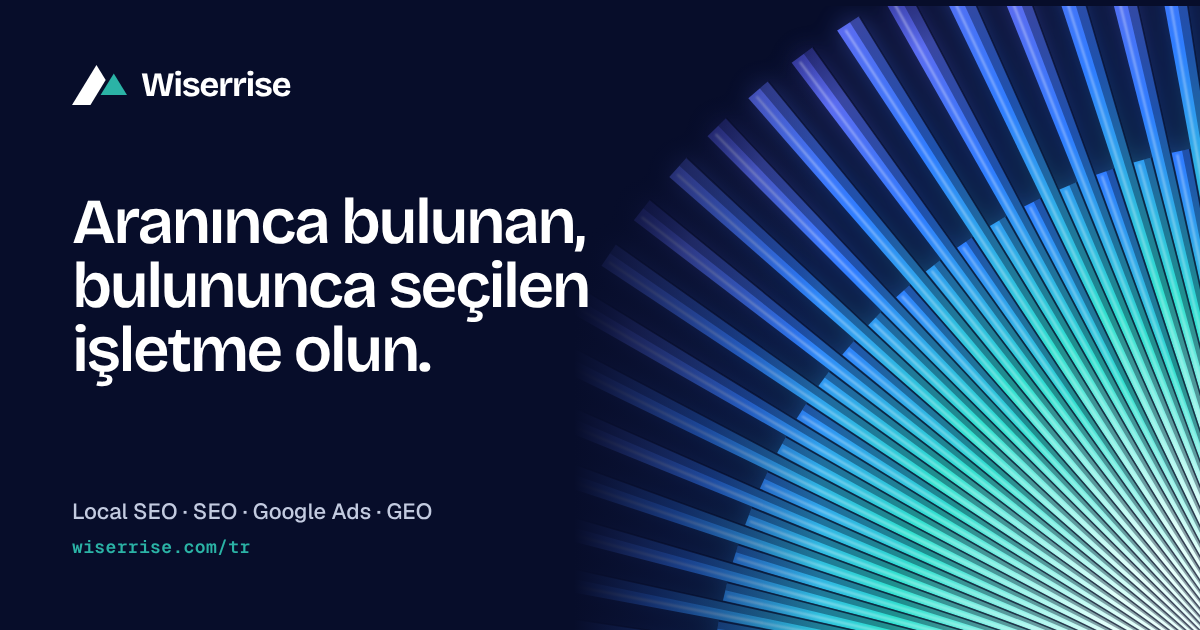
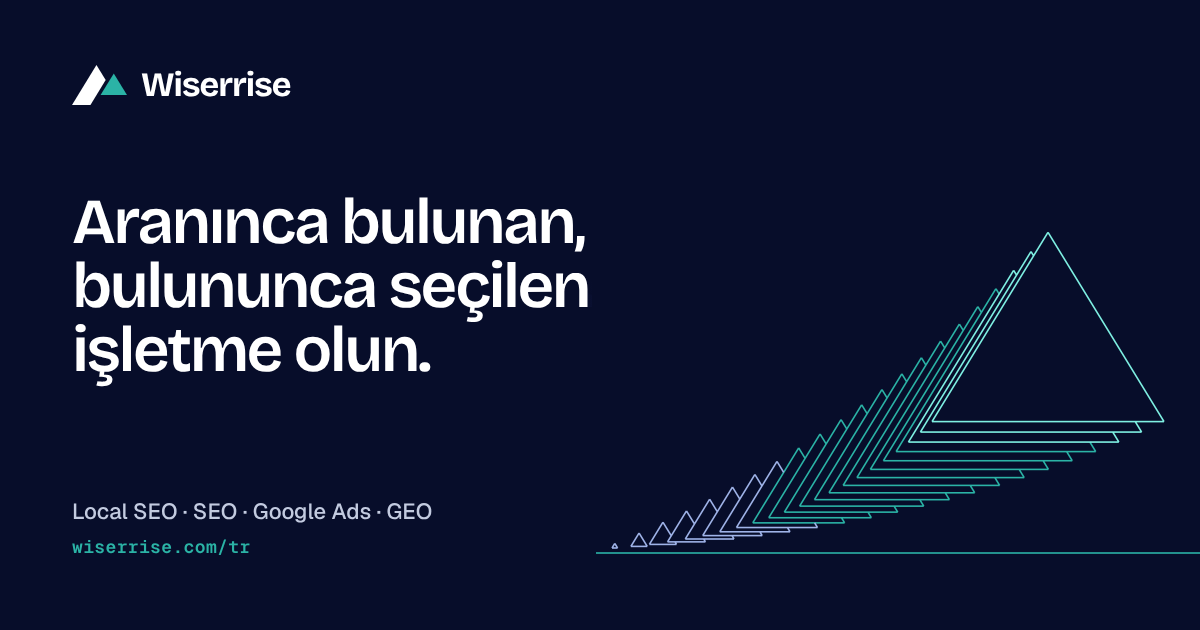
İmza: C·İZ ve kavis hareketli çizgileri kaldırıldı, yalnız sabit iç içe üçgen kalır (Padişah 25.11: animasyon yok)

diff --git a/public/v2.css b/public/v2.css
@@ -1,7 +1,7 @@
 /* ==========================================================================
    Wiserrise 2026 tasarımı (design="v2" sayfalar).
    Kaynak: Wiserrise tasarım sistemi (lacivert #16244d, firuze #2bb3a6,
-   kırık beyaz #f6f6f3; şemse ışınları imzası). Bu dosya yalnızca v2 sayfalarda
+   kırık beyaz #f6f6f3; imza C · İZ, public/js/iz.js). Bu dosya yalnızca v2 sayfalarda
    yüklenir; eski sayfalar /style.css ile devam eder.
    ========================================================================== */
 
@@ -31,9 +31,9 @@ input::placeholder{color:#868982}
 .cam{position:relative;overflow:hidden;background:#000;color:#fff;min-height:calc(100vh + 160px);min-height:calc(100svh + 160px);display:flex;align-items:center;padding:0 clamp(16px,3vw,32px);box-sizing:border-box}
 .semse-corner{background-color:#16244d}
 .semse-foot{background-color:#f6f6f3}
-/* İmza kavis: public/js/kavis.js çizer. Kutunun zemininin üstünde, yazının ve panellerin altında durur. */
-[data-kavis]{position:relative;isolation:isolate}
-.kavis{position:absolute;inset:0;z-index:-1;display:block;width:100%;height:100%;pointer-events:none}
+/* İmza C · İZ: public/js/iz.js çizer. Kutunun zemininin üstünde, yazının ve panellerin altında durur. */
+[data-iz]{position:relative;isolation:isolate}
+.iz{position:absolute;inset:0;z-index:-1;display:block;width:100%;height:100%;pointer-events:none;overflow:hidden}
 .card{transition:border-color 160ms ease}
 /* Kart oku: kart zıplamaz. Okun üstüne gelince şeffaf hap açılır, içinde eylem yazısı belirir. */
 .v2-arrow{flex:0 0 auto;display:inline-flex;align-items:center;justify-content:center;min-width:36px;height:36px;padding:0 11px;border-radius:999px;border:1px solid #868982;color:#16244d;box-sizing:border-box;font-size:13px;font-weight:600;white-space:nowrap;transition:padding 280ms cubic-bezier(.2,.8,.2,1),border-color 200ms ease,background-color 200ms ease,color 200ms ease}
@@ -576,7 +576,7 @@ body.v2 .v2-rel-card { display: flex; flex-direction: column; gap: 10px; min-hei
 .v2-rel-p { font-size: 15px; line-height: 1.55; color: #5c5e59; }
 .v2-rel-card .v2-arrow { margin-top: auto; align-self: flex-start; }
 
-/* sayfa sonu vurgu ekranı: ana sayfadaki siyah bant, kenardan kenara ama daha kısa; paneli yok, kavis yazının sağındaki boşluğu doldurur */
+/* sayfa sonu vurgu ekranı: ana sayfadaki siyah bant, kenardan kenara ama daha kısa; paneli yok, imza yazının sağındaki boşluktan kalkar */
 .cam.cam--kisa { min-height: 560px; min-height: clamp(520px, 72svh, 720px); }
 .v2-page-cta { width: 100%; max-width: 1312px; margin: 0 auto; padding: clamp(40px, 6vw, 72px) 0 clamp(40px, 6vw, 72px) clamp(24px, 5vw, 64px); box-sizing: border-box; }
 .v2-page-cta-in { max-width: 560px; display: flex; flex-direction: column; align-items: flex-start; gap: 24px; }
@@ -591,7 +591,7 @@ body.v2 .v2-btn-cizgi { display: inline-flex; align-items: center; height: 60px;
 .v2-hub-hl { display: flex; flex-direction: column; gap: 16px; max-width: 720px; }
 .v2-hub-h h2 { margin: 0; font-family: 'Bricolage Grotesque', Geist, sans-serif; font-size: clamp(30px, 4.2vw, 44px); line-height: 1.02; font-weight: 600; letter-spacing: -0.03em; }
 .v2-hub-h p { margin: 0; font-size: 17px; line-height: 1.55; color: #5c5e59; max-width: 420px; }
-.v2-hub-n { color: #868982; }
+.v2-hub-n { color: #5c5e59; }
 .v2-hub-grid { display: grid; grid-template-columns: repeat(3, minmax(0, 1fr)); gap: 16px; }
 body.v2 .v2-hub-card { display: flex; flex-direction: column; gap: 14px; min-height: 340px; padding: 32px; border-radius: 20px; background: #ffffff; border: 1px solid #dedfda; color: #1a1b19; text-decoration: none; box-sizing: border-box; }
 .v2-hub-top { display: flex; justify-content: space-between; align-items: flex-start; gap: 12px; }
